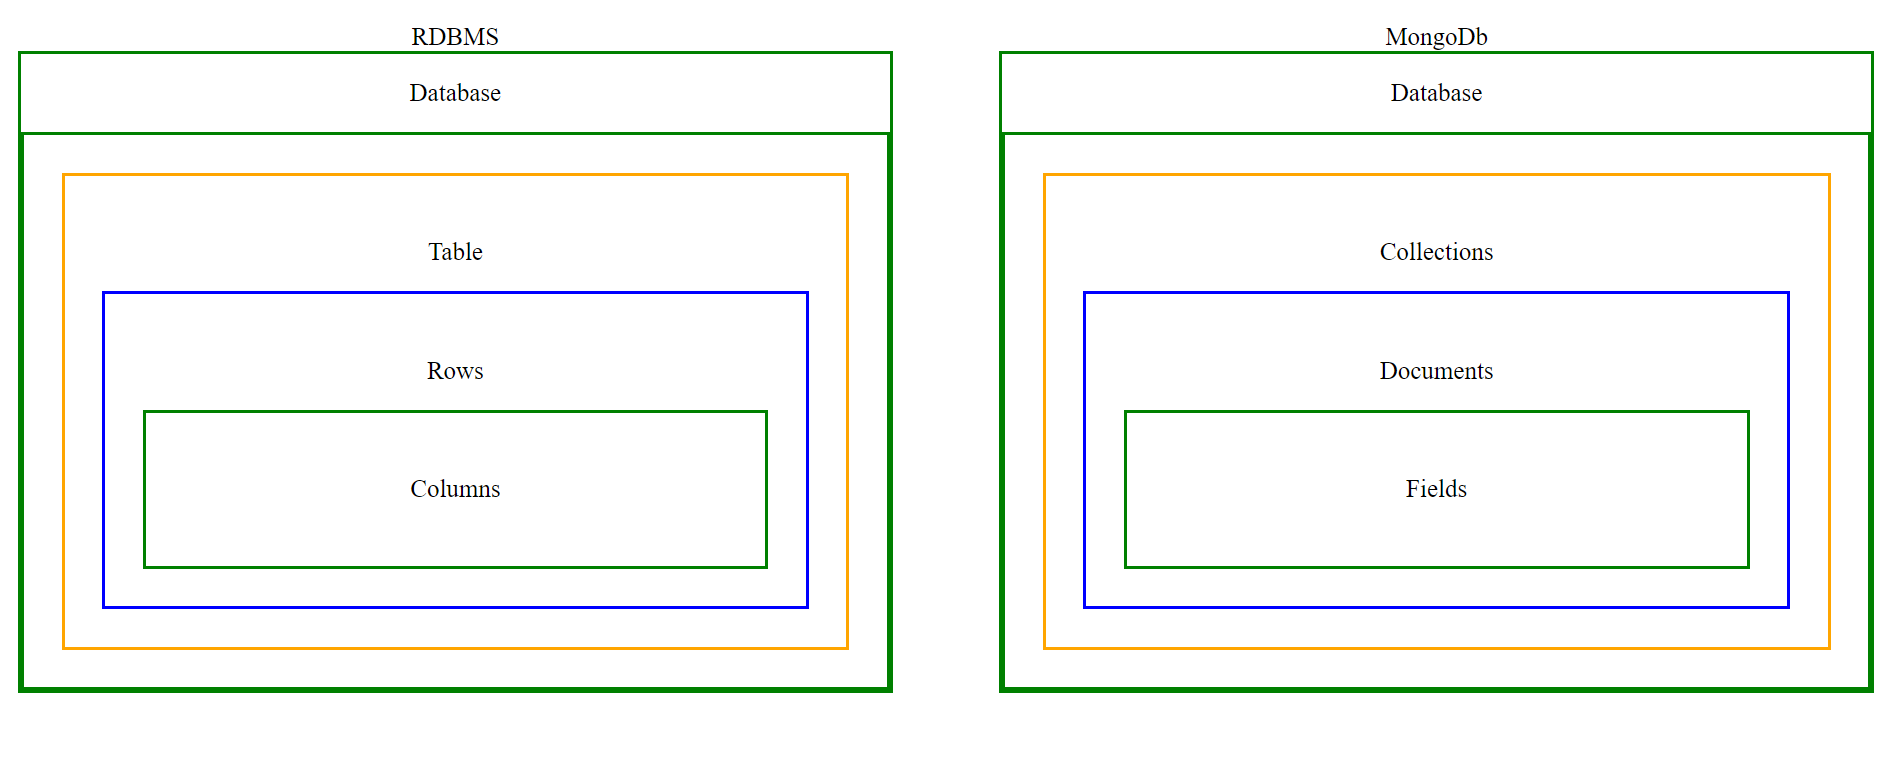
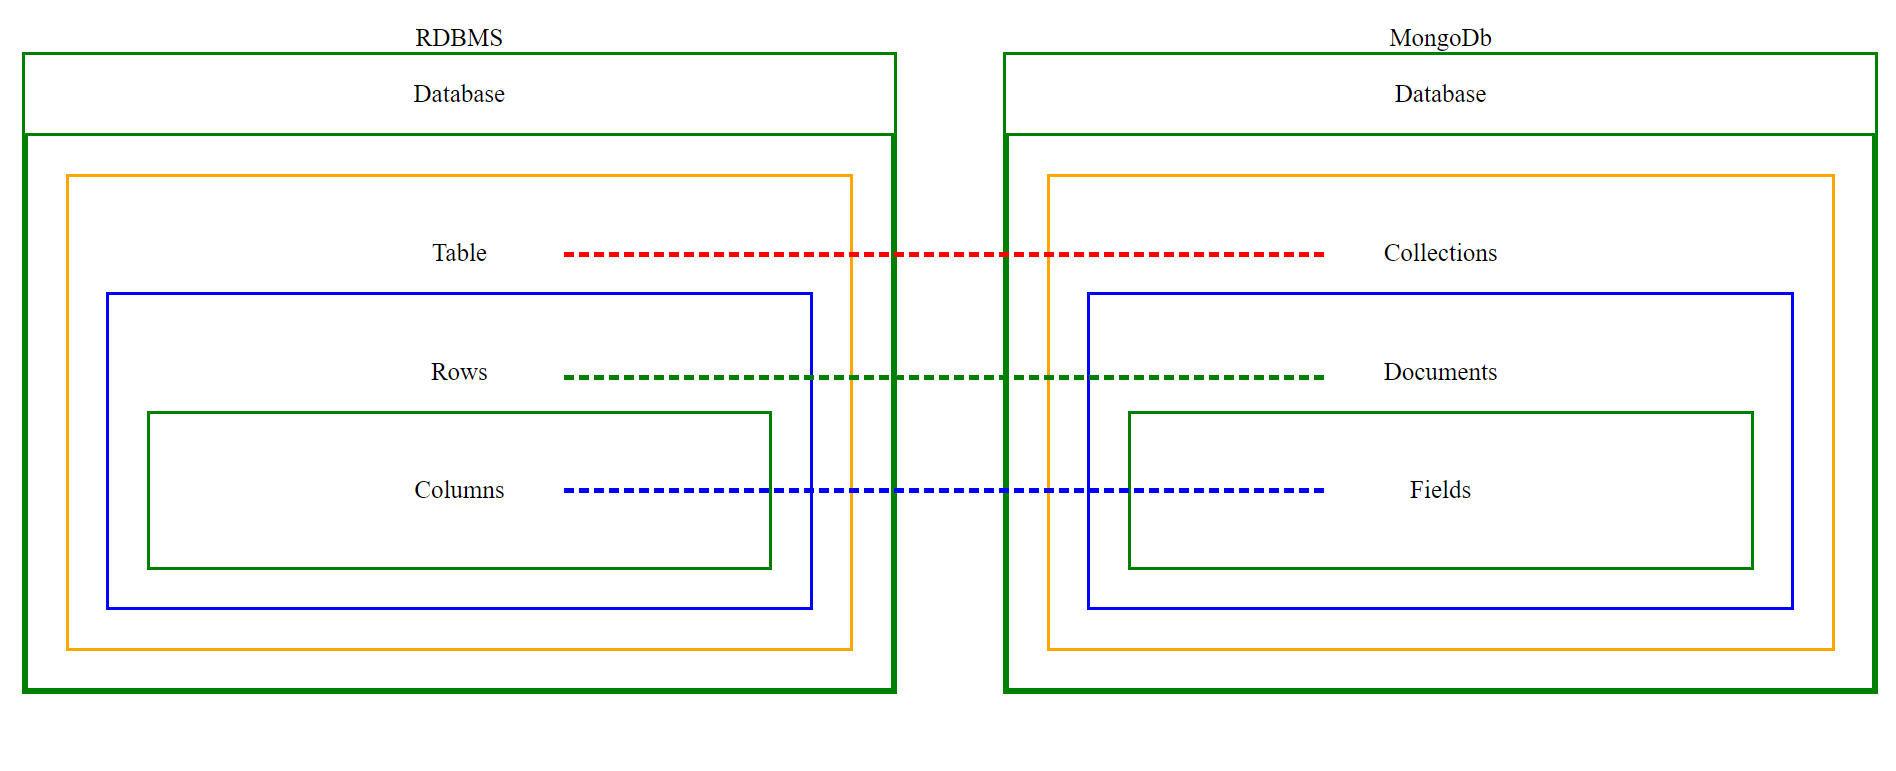
update image

diff --git a/module5/db-comparison.html b/module5/db-comparison.html
@@ -12,6 +12,7 @@
         grid-template-columns: 1fr 1fr;
         column-gap: 50px;
         font-size: 20px;
+        position: relative;
       }
       .rdbms {
         border: 3px solid red;
@@ -54,9 +55,37 @@
         border: 3px solid green;
         padding: 30px;
       }
+      .line1 {
+        width: 40%;
+        height: 1px;
+        border-bottom: 4px dashed red;
+        position: absolute;
+        top: 201px;
+        left: 451px;
+      }
+      .line2 {
+        width: 40%;
+        height: 1px;
+        border-bottom: 4px dashed green;
+        position: absolute;
+        top: 300px;
+        left: 451px;
+      }
+      .line3 {
+        width: 40%;
+        height: 1px;
+        border-bottom: 4px dashed blue;
+        position: absolute;
+        top: 390px;
+        left: 451px;
+      }
     </style>
 
     <div class="database-box">
+      <div class="line1"></div>
+      <div class="line2"></div>
+      <div class="line3"></div>
+
       <div class="mongodb">
         <div>RDBMS</div>
         <div class="database">

diff --git a/module5/dist/5-1.js b/module5/dist/5-1.js
@@ -1,0 +1,4 @@
+"use strict";
+{
+    console.log("installing ");
+}

diff --git a/module5/dist/5-0.js b/module5/dist/5-0.js
@@ -1,0 +1,4 @@
+"use strict";
+{
+    console.log("5-0ts");
+}

diff --git a/module5/src/5-1.ts b/module5/src/5-1.ts
@@ -1,0 +1,3 @@
+{
+  console.log("installing ");
+}
